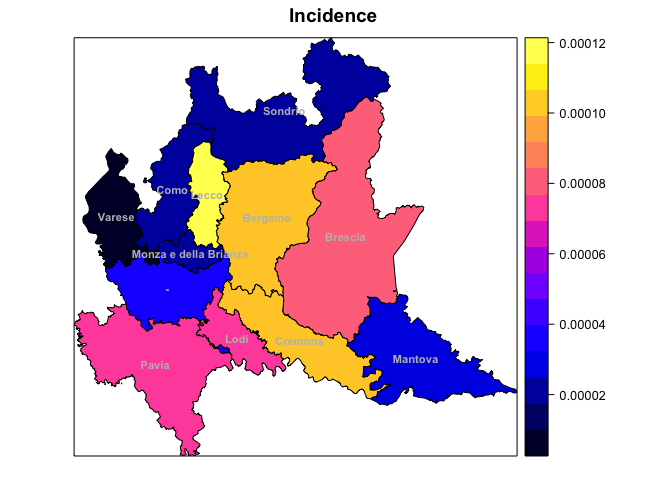
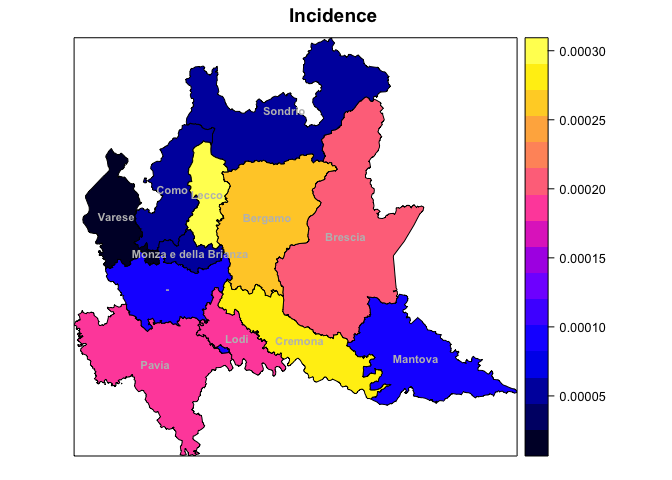
Add home page, navigation and theme

diff --git a/BYM_model/INLA_def.md b/BYM_model/INLA_def.md
@@ -1,7 +1,7 @@
 COVID19 - Forecast and predictions using a BYM model in Italy
 ================
 Paolo Girardi
-30 Marzo, 2020
+02 Aprile, 2020
 
 <a rel="license" href="http://creativecommons.org/licenses/by-nc/4.0/"><img alt="Creative Commons License" style="border-width:0" src="https://i.creativecommons.org/l/by-nc/4.0/88x31.png" /></a><br />This
 work is licensed under a
@@ -142,32 +142,32 @@ We create new variables that are required by INLA procedure.
     ## 
     ## Time used:
     ##  Pre-processing    Running inla Post-processing           Total 
-    ##          3.0132          3.1908          0.3932          6.5972 
+    ##          2.2553          1.6847          0.1778          4.1179 
     ## 
     ## Fixed effects:
     ##                mean     sd 0.025quant 0.5quant 0.975quant    mode   kld
-    ## (Intercept) -9.1279 0.0637    -9.2625  -9.1279    -8.9932 -9.1278 0.001
+    ## (Intercept) -9.1186 0.0627    -9.2511  -9.1186    -8.9861 -9.1186 8e-04
     ## 
     ## Random effects:
     ## Name   Model
     ##  ID   BYM model 
     ## 
     ## Model hyperparameters:
-    ##                                         mean      sd 0.025quant 0.5quant
-    ## Precision for ID (iid component)     94.8509 94.5801     6.5082  66.8721
-    ## Precision for ID (spatial component)  0.9509  0.3915     0.3777   0.8897
+    ##                                        mean      sd 0.025quant 0.5quant
+    ## Precision for ID (iid component)     95.371 94.6399      6.654  67.4534
+    ## Precision for ID (spatial component)  1.013  0.4181      0.402   0.9472
     ##                                      0.975quant    mode
-    ## Precision for ID (iid component)        346.818 17.8407
-    ## Precision for ID (spatial component)      1.892  0.7669
+    ## Precision for ID (iid component)        347.390 18.2938
+    ## Precision for ID (spatial component)      2.019  0.8156
     ## 
-    ## Expected number of effective parameters(std dev): 12.22(0.0093)
-    ## Number of equivalent replicates : 35.34 
+    ## Expected number of effective parameters(std dev): 12.24(0.0092)
+    ## Number of equivalent replicates : 37.26 
     ## 
-    ## Deviance Information Criterion (DIC) ...............: 37088.56
-    ## Deviance Information Criterion (DIC, saturated) ....: 34925.78
-    ## Effective number of parameters .....................: 12.24
+    ## Deviance Information Criterion (DIC) ...............: 37807.45
+    ## Deviance Information Criterion (DIC, saturated) ....: 35498.48
+    ## Effective number of parameters .....................: 12.25
     ## 
-    ## Marginal log-Likelihood:  -18598.49 
+    ## Marginal log-Likelihood:  -18958.37 
     ## Posterior marginals for linear predictor and fitted values computed
 
 ![](INLA_def_files/figure-gfm/unnamed-chunk-8-1.png)<!-- --> The image
@@ -180,7 +180,7 @@ the temporal trend of COVID-19 in the reported temporal window. The
 observed number of COVID-19 a the time \(t\), , is modelled as follows  
 \[
 y_{t} \sim Poisson (\lambda_{t})
-\] with t=1,…,36. \\end{center} where the quantity
+\] with t=1,…,38. \\end{center} where the quantity
 \(\frac{\lambda_{t}}\), is modelled by a Random Walk of order 2 variable
 \[
 log({\lambda_{it}})=\alpha+\gamma_t+\phi_t, 
@@ -195,11 +195,11 @@ errors. ![](INLA_def_files/figure-gfm/unnamed-chunk-9-1.png)<!-- -->
     ## 
     ## Time used:
     ##  Pre-processing    Running inla Post-processing           Total 
-    ##          4.1249          8.1949          0.1426         12.4624 
+    ##          3.0961          7.1947          0.1422         10.4331 
     ## 
     ## Fixed effects:
     ##               mean     sd 0.025quant 0.5quant 0.975quant   mode kld
-    ## (Intercept) 2.1492 0.2671     1.6248   2.1492     2.6732 2.1492   0
+    ## (Intercept) 2.1519 0.2601     1.6413   2.1519      2.662 2.1519   0
     ## 
     ## Random effects:
     ## Name   Model
@@ -208,17 +208,17 @@ errors. ![](INLA_def_files/figure-gfm/unnamed-chunk-9-1.png)<!-- -->
     ## 
     ## Model hyperparameters:
     ##                    mean      sd 0.025quant 0.5quant 0.975quant   mode
-    ## Precision for t  558.96 357.841     128.46   477.12    1475.74 323.84
-    ## Precision for t2  28.19   7.976      15.43    27.25      46.49  25.47
+    ## Precision for t  769.88 474.364     192.96   662.72    1976.20 467.55
+    ## Precision for t2  22.45   5.962      12.73    21.81      35.94  20.59
     ## 
-    ## Expected number of effective parameters(std dev): 36.24(0.2968)
-    ## Number of equivalent replicates : 11.92 
+    ## Expected number of effective parameters(std dev): 38.40(0.2574)
+    ## Number of equivalent replicates : 11.87 
     ## 
-    ## Deviance Information Criterion (DIC) ...............: 50638.53
-    ## Deviance Information Criterion (DIC, saturated) ....: 48475.76
-    ## Effective number of parameters .....................: 35.23
+    ## Deviance Information Criterion (DIC) ...............: 52472.46
+    ## Deviance Information Criterion (DIC, saturated) ....: 50163.49
+    ## Effective number of parameters .....................: 37.38
     ## 
-    ## Marginal log-Likelihood:  -25513.77 
+    ## Marginal log-Likelihood:  -26443.54 
     ## Posterior marginals for linear predictor and fitted values computed
 
 ![](INLA_def_files/figure-gfm/unnamed-chunk-9-2.png)<!-- -->![](INLA_def_files/figure-gfm/unnamed-chunk-9-3.png)<!-- -->
@@ -226,7 +226,7 @@ We now consider a BYM model with spatial and temporal components and
 their complete interactions (Type IV). The observed number of COVID-19,
 , was modelled as: \[
 y_{it} \sim Poisson (\lambda_{it})\\
-\] with i=1,..,12, and t=1,…,36. We modelled the ratio
+\] with i=1,..,12, and t=1,…,38. We modelled the ratio
 \(\frac{\lambda_{it}}{N_{i}}\), the Incidence of COVID-19, with a BYM
 model including temporal covariates as follows  
 \[
@@ -260,13 +260,13 @@ Besag), but are temporally unstructured. -TypeVI: coefficients
 \(\delta_{it}\) have both a spatial and temporal structure. It is the
 most complex type of space-time interaction.
 
-    ## [1] 3073.61
+    ## [1] 3274.581
 
-    ## [1] 3087.757
+    ## [1] 3284.081
 
-    ## [1] 3072.782
+    ## [1] 3262.9
 
-    ## [1] 3072.805
+    ## [1] 3265.287
 
 The time and space component mean estimates can be extracted here
 
@@ -282,8 +282,8 @@ province.
 ![](INLA_def_files/figure-gfm/unnamed-chunk-13-1.png)<!-- -->![](INLA_def_files/figure-gfm/unnamed-chunk-13-2.png)<!-- -->![](INLA_def_files/figure-gfm/unnamed-chunk-13-3.png)<!-- -->
 
     ##           used  (Mb) gc trigger  (Mb) limit (Mb) max used  (Mb)
-    ## Ncells 2753205 147.1    4581944 244.8         NA  4581944 244.8
-    ## Vcells 7162042  54.7   12255594  93.6      16384 10146329  77.5
+    ## Ncells 2756659 147.3    4581968 244.8         NA  4581968 244.8
+    ## Vcells 7239095  55.3   12255594  93.6      16384 10146329  77.5
 
 ![](INLA_def_files/figure-gfm/unnamed-chunk-14-1.png)<!-- -->
 
@@ -301,12 +301,12 @@ reason, the intercept is not included in the linear predictor.
     ## 
     ## Time used:
     ##  Pre-processing    Running inla Post-processing           Total 
-    ##          3.1972         85.4394          0.7757         89.4124 
+    ##          3.8131        106.3273          0.4298        110.5702 
     ## 
     ## Fixed effects:
     ##               mean     sd 0.025quant 0.5quant 0.975quant   mode kld
-    ## (Intercept) 0.7587 0.2926     0.1839   0.7587     1.3324 0.7589   0
-    ## log(pop)    0.0635 0.0221     0.0201   0.0635     0.1067 0.0635   0
+    ## (Intercept) 0.7670 0.2856     0.2059   0.7671     1.3270 0.7673   0
+    ## log(pop)    0.0641 0.0215     0.0218   0.0642     0.1064 0.0642   0
     ## hubei       0.0000 0.0000     0.0000   0.0000     0.0001 0.0000   0
     ## 
     ## Random effects:
@@ -318,26 +318,26 @@ reason, the intercept is not included in the linear predictor.
     ## 
     ## Model hyperparameters:
     ##                                           mean        sd 0.025quant
-    ## Precision for ID (iid component)     1.147e+00 4.985e-01     0.4373
-    ## Precision for ID (spatial component) 1.836e+03 1.825e+03   125.7771
-    ## Precision for t                      5.572e+02 3.882e+02   109.3506
-    ## Precision for t2                     1.836e+04 1.825e+04  1279.9079
-    ## Precision for over                   5.613e-01 4.660e-02     0.4741
+    ## Precision for ID (iid component)         1.190 5.125e-01     0.4522
+    ## Precision for ID (spatial component)  1845.269 1.829e+03   126.5128
+    ## Precision for t                        719.839 5.103e+02   133.1548
+    ## Precision for t2                     18728.960 1.841e+04  1303.6294
+    ## Precision for over                       0.621 5.040e-02     0.5268
     ##                                       0.5quant 0.975quant      mode
-    ## Precision for ID (iid component)     1.062e+00  2.362e+00    0.8980
-    ## Precision for ID (spatial component) 1.296e+03  6.661e+03  343.8411
-    ## Precision for t                      4.638e+02  1.561e+03  288.3685
-    ## Precision for t2                     1.297e+04  6.655e+04 3524.8877
-    ## Precision for over                   5.598e-01  6.575e-01    0.5574
+    ## Precision for ID (iid component)     1.106e+00  2.431e+00    0.9388
+    ## Precision for ID (spatial component) 1.305e+03  6.682e+03  344.7872
+    ## Precision for t                      5.965e+02  2.043e+03  360.0363
+    ## Precision for t2                     1.331e+04  6.734e+04 3576.8610
+    ## Precision for over                   6.194e-01  7.251e-01    0.6166
     ## 
-    ## Expected number of effective parameters(std dev): 412.69(1.509)
-    ## Number of equivalent replicates : 1.047 
+    ## Expected number of effective parameters(std dev): 434.35(1.512)
+    ## Number of equivalent replicates : 1.05 
     ## 
-    ## Deviance Information Criterion (DIC) ...............: 3078.39
-    ## Deviance Information Criterion (DIC, saturated) ....: 915.61
-    ## Effective number of parameters .....................: 400.49
+    ## Deviance Information Criterion (DIC) ...............: 3277.70
+    ## Deviance Information Criterion (DIC, saturated) ....: 968.73
+    ## Effective number of parameters .....................: 422.67
     ## 
-    ## Marginal log-Likelihood:  -2353.42 
+    ## Marginal log-Likelihood:  -2484.11 
     ## Posterior marginals for linear predictor and fitted values computed
 
 ![](INLA_def_files/figure-gfm/unnamed-chunk-17-1.png)<!-- -->
